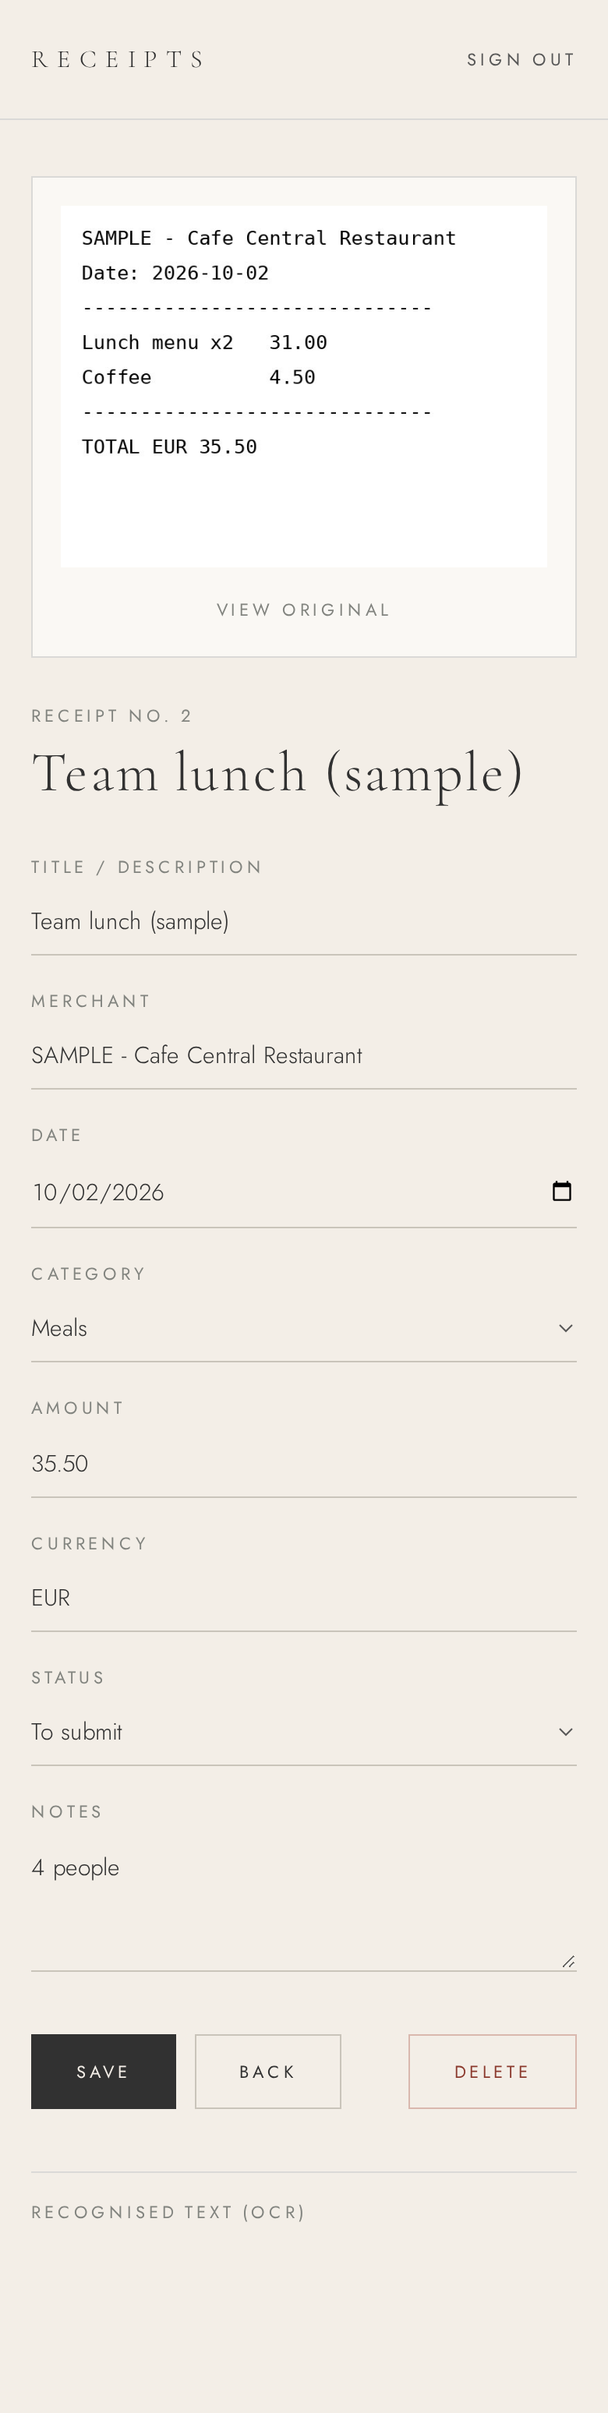
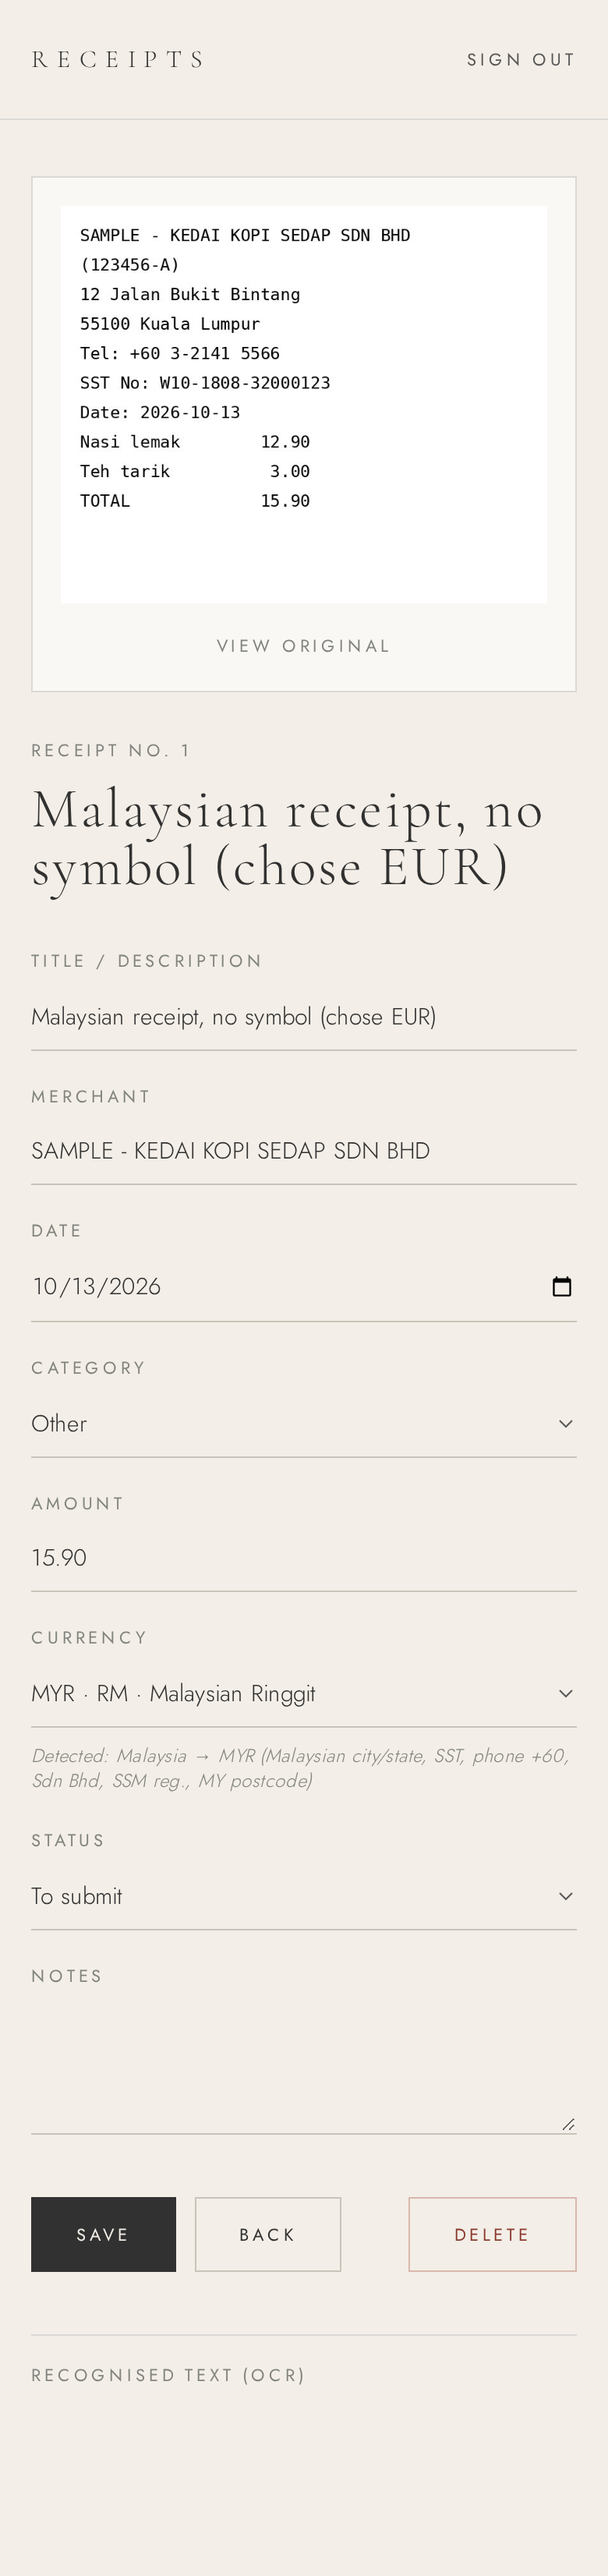
Country-based currency inference with confidence scoring, detection note, full-PDF OCR (text layer first)

diff --git a/currency.py b/currency.py
@@ -1,0 +1,86 @@
+"""Currency detection from OCR text: explicit symbols/codes first, then scored country clues."""
+import re
+
+EXPLICIT = [  # (currency, regex, label)
+    ("MYR", r"\bRM\s?\d", "RM"), ("MYR", r"(?<![A-Z])MYR(?![A-Z])", "MYR"),
+    ("SGD", r"S\$", "S$"), ("SGD", r"(?<![A-Z])SGD(?![A-Z])", "SGD"),
+    ("USD", r"US\$", "US$"), ("USD", r"(?<![A-Z])USD(?![A-Z])", "USD"),
+    ("EUR", r"€", "€"), ("EUR", r"(?<![A-Z])EUR(?![A-Z])", "EUR"),
+    ("GBP", r"£", "£"), ("GBP", r"(?<![A-Z])GBP(?![A-Z])", "GBP"),
+    ("HKD", r"HK\$", "HK$"), ("AUD", r"\bA\$|(?<![A-Z])AUD(?![A-Z])", "A$/AUD"), ("CAD", r"\bC\$|(?<![A-Z])CAD(?![A-Z])", "C$/CAD"),
+    ("NZD", r"NZ\$|(?<![A-Z])NZD(?![A-Z])", "NZ$"), ("THB", r"฿|(?<![A-Z])THB(?![A-Z])", "฿/THB"),
+    ("IDR", r"\bRp\.?\s?\d|(?<![A-Z])IDR(?![A-Z])", "Rp/IDR"), ("PHP", r"₱|(?<![A-Z])PHP(?![A-Z])", "₱/PHP"),
+    ("VND", r"₫|(?<![A-Z])VND(?![A-Z])", "₫/VND"), ("KRW", r"₩|(?<![A-Z])KRW(?![A-Z])", "₩/KRW"),
+    ("INR", r"₹|(?<![A-Z])INR(?![A-Z])", "₹/INR"), ("JPY", r"(?<![A-Z])JPY(?![A-Z])|円", "JPY/円"),
+    ("CNY", r"(?<![A-Z])(CNY|RMB)(?![A-Z])|元", "CNY"), ("CHF", r"(?<![A-Z])CHF(?![A-Z])", "CHF"),
+    ("AED", r"(?<![A-Z])AED(?![A-Z])", "AED"), ("MXN", r"MX\$|(?<![A-Z])MXN(?![A-Z])", "MXN"),
+    ("ARS", r"AR\$|(?<![A-Z])ARS(?![A-Z])", "ARS"), ("BRL", r"R\$|(?<![A-Z])BRL(?![A-Z])", "R$"),
+]
+
+EU = {"Spain": ["spain", "españa", "madrid", "barcelona", "valencia", "sevilla", "málaga|malaga", r"\+34", r"\b(NIF|CIF)\b", r"\bIVA\b"],
+      "France": ["france", "paris", "lyon", "marseille", "nice", r"\+33", r"\bTVA\b", r"\bSIRET\b|\bSIREN\b"],
+      "Germany": ["germany", "deutschland", "berlin", "münchen|munich", "hamburg", "frankfurt", r"\+49", r"\bMwSt\b|\bUSt\b", r"\bGmbH\b"],
+      "Italy": ["italy", "italia", "roma|rome", "milano|milan", "firenze|florence", r"\+39", r"\bP\.? ?IVA\b"],
+      "Portugal": ["portugal", "lisboa|lisbon", "porto", r"\+351", r"\bNIF\b"],
+      "Netherlands": ["netherlands", "nederland", "amsterdam", "rotterdam", r"\+31", r"\bBTW\b"],
+      "Belgium": ["belgium", "belgique", "brussels|bruxelles", r"\+32"], "Ireland": ["ireland", "dublin", r"\+353"],
+      "Austria": ["austria", "österreich", "wien|vienna", r"\+43"], "Greece": ["greece", "athens", r"\+30"],
+      "Finland": ["finland", "helsinki", r"\+358"]}
+
+COUNTRIES = {  # country: (currency, [(regex, weight, label)])
+    "Malaysia": ("MYR", [(r"malaysia", 3, "Malaysia"), (r"kuala lumpur|\bKL\b|petaling jaya|selangor|penang|pulau pinang|johor|melaka|malacca|ipoh|kota kinabalu|kuching|putrajaya|cyberjaya|shah alam|subang|klang", 2, "Malaysian city/state"),
+                         (r"\bSST\b", 2, "SST"), (r"\+?60[\s-]?1?\d[\s-]?\d{3,4}[\s-]?\d{4}", 2, "phone +60"), (r"\bSdn\.? ?Bhd\b|\bBhd\b", 3, "Sdn Bhd"),
+                         (r"\bSSM\b|\(\d{6,7}-[A-Z]\)|\b20\d{10}\b", 2, "SSM reg."), (r"\b[0-9]{5}\s+(kuala lumpur|selangor|penang|johor|melaka|perak|sabah|sarawak|kedah|pahang)", 2, "MY postcode")]),
+    "Singapore": ("SGD", [(r"singapore", 3, "Singapore"), (r"\+65[\s-]?\d{4}[\s-]?\d{4}", 2, "phone +65"), (r"\bUEN\b|\b(19|20)\d{7}[A-Z]\b", 3, "UEN"),
+                          (r"\bPte\.? ?Ltd\b", 3, "Pte Ltd"), (r"\bGST\b", 1, "GST"), (r"\bS\(?\d{6}\)?|singapore\s+\d{6}", 2, "SG postcode"),
+                          (r"orchard|jurong|tampines|changi|marina bay|raffles", 2, "Singapore area")]),
+    "United States": ("USD", [(r"united states|\bUSA\b|\bU\.S\.A?\.?\b", 3, "USA"), (r"\+1[\s-]?\(?\d{3}\)?[\s-]?\d{3}[\s-]?\d{4}|\(\d{3}\)\s?\d{3}-\d{4}", 2, "US phone"),
+                              (r"\b(AL|AK|AZ|AR|CA|CO|CT|DE|FL|GA|HI|ID|IL|IN|IA|KS|KY|LA|ME|MD|MA|MI|MN|MS|MO|MT|NE|NV|NH|NJ|NM|NY|NC|ND|OH|OK|OR|PA|RI|SC|SD|TN|TX|UT|VT|VA|WA|WV|WI|WY)\s+\d{5}(-\d{4})?\b", 3, "US state + ZIP"),
+                              (r"new york|los angeles|san francisco|chicago|seattle|boston|miami|las vegas", 2, "US city"), (r"sales tax", 1, "sales tax")]),
+    "United Kingdom": ("GBP", [(r"united kingdom|\bUK\b|england|scotland|wales", 3, "UK"), (r"\+44", 2, "phone +44"), (r"\b[A-Z]{1,2}\d[A-Z\d]?\s?\d[A-Z]{2}\b", 2, "UK postcode"),
+                               (r"london|manchester|edinburgh|birmingham|glasgow", 2, "UK city"), (r"\bVAT\s?(reg|no|number)", 2, "VAT reg."), (r"\bVAT\b", 1, "VAT")]),
+    "Thailand": ("THB", [(r"thailand", 3, "Thailand"), (r"bangkok|phuket|chiang mai|pattaya", 2, "Thai city"), (r"\+66", 2, "phone +66"), (r"ภาษี|บาท", 3, "Thai script")]),
+    "Indonesia": ("IDR", [(r"indonesia", 3, "Indonesia"), (r"jakarta|bali|denpasar|surabaya|bandung|ubud", 2, "Indonesian city"), (r"\+62", 2, "phone +62"), (r"\bNPWP\b|\bPPN\b", 3, "NPWP/PPN")]),
+    "Australia": ("AUD", [(r"australia", 3, "Australia"), (r"sydney|melbourne|brisbane|perth|adelaide|canberra", 2, "Australian city"), (r"\+61", 2, "phone +61"),
+                          (r"\bABN\b", 3, "ABN"), (r"\b(NSW|VIC|QLD|WA|SA|TAS|ACT|NT)\s+\d{4}\b", 3, "AU state + postcode"), (r"\bGST\b", 1, "GST")]),
+    "Japan": ("JPY", [(r"japan|日本", 3, "Japan"), (r"tokyo|osaka|kyoto|東京|大阪|京都", 2, "Japanese city"), (r"\+81", 2, "phone +81"), (r"〒\s?\d{3}-\d{4}", 3, "JP postcode"), (r"税込|消費税", 3, "consumption tax")]),
+    "Argentina": ("ARS", [(r"argentina", 3, "Argentina"), (r"buenos aires|córdoba|cordoba|rosario|mendoza|bariloche", 2, "Argentine city"), (r"\+54", 2, "phone +54"), (r"\bCUIT\b", 3, "CUIT"), (r"\bIVA\b", 1, "IVA")]),
+}
+for c, pats in EU.items():
+    lst = [(pats[0], 3, c)]
+    for p in pats[1:]:
+        if p.startswith(r"\+"): lst.append((p, 2, "phone " + p[1:]))
+        elif p.startswith(r"\b"): lst.append((p, 1 if p in (r"\bIVA\b", r"\bNIF\b") else 2, re.sub(r"\\b|\\.|\?|\(|\)| ", "", p).replace("|", "/")))
+        else: lst.append((p, 2, c + " city"))
+    COUNTRIES[c] = ("EUR", lst)
+COUNTRIES["Spain"][1].append((r"\bVAT\b", 1, "VAT"))
+
+def detect(text):
+    """Returns dict(currency, confident, note) or None."""
+    if not text: return None
+    found = {}
+    for cur, pat, lbl in EXPLICIT:
+        if re.search(pat, text): found.setdefault(cur, lbl)
+    if len(found) == 1:
+        cur, lbl = next(iter(found.items()))
+        return {"currency": cur, "confident": True, "note": f"Detected: “{lbl}” on receipt → {cur}"}
+    scores = {}
+    for country, (cur, pats) in COUNTRIES.items():
+        s, why = 0, []
+        for pat, w, lbl in pats:
+            if re.search(pat, text, re.I if not pat.startswith(r"\b(") and "[A-Z]" not in pat else 0):
+                s += w; why.append(lbl)
+        if s: scores[country] = (s, cur, why)
+    if not scores:
+        return {"currency": None, "confident": False, "note": "Ambiguous symbols: " + ", ".join(found.values())} if found else None
+    bycur = {}
+    for country, (s, cur, why) in scores.items(): bycur[cur] = bycur.get(cur, 0) + s
+    ranked = sorted(scores.items(), key=lambda kv: -kv[1][0])
+    country, (s, cur, why) = ranked[0]
+    curscores = sorted(bycur.values(), reverse=True)
+    margin = curscores[0] - (curscores[1] if len(curscores) > 1 else 0)
+    if found and cur not in found: margin = 0  # explicit symbols disagree with country clues
+    confident = s >= 4 and margin >= 3
+    note = f"Detected: {country} → {cur} ({', '.join(dict.fromkeys(why))})"
+    if not confident: note = f"Possible: {country} → {cur} ({', '.join(dict.fromkeys(why))}) · not confident, kept your choice"
+    return {"currency": cur, "confident": confident, "note": note}

diff --git a/app.py b/app.py
@@ -38,6 +38,7 @@ def db():
           status TEXT DEFAULT 'to submit', file TEXT, preview TEXT, ocr_text TEXT, created TEXT)""")
         cols = [c[1] for c in g.db.execute("PRAGMA table_info(receipts)")]
         if "title" not in cols: g.db.execute("ALTER TABLE receipts ADD COLUMN title TEXT DEFAULT ''")
+        if "ocr_note" not in cols: g.db.execute("ALTER TABLE receipts ADD COLUMN ocr_note TEXT DEFAULT ''")
     return g.db
 @app.teardown_appcontext
 def close(e):
@@ -65,6 +66,19 @@ def ocr(preview):
         return pytesseract.image_to_string(Image.open(os.path.join(TH, preview)))
     except Exception: return ""
 
+def extract_text(path, prev):
+    """OCR text. PDFs: use the text layer of all pages if present, otherwise OCR every page (max 10)."""
+    if path.lower().endswith(".pdf"):
+        try:
+            t = subprocess.run(["pdftotext", "-layout", path, "-"], capture_output=True, text=True, timeout=60).stdout
+            if len(t.strip()) > 20: return t
+            import tempfile, glob, pytesseract
+            with tempfile.TemporaryDirectory() as d:
+                subprocess.run(["pdftoppm", "-png", "-r", "200", "-l", "10", path, os.path.join(d, "p")], timeout=120)
+                return "\n".join(pytesseract.image_to_string(Image.open(p)) for p in sorted(glob.glob(os.path.join(d, "p*.png"))))
+        except Exception: return ""
+    return ocr(prev) if prev else ""
+
 def parse(text):
     r = {}
     lines = [l.strip() for l in text.splitlines() if len(l.strip()) > 2]
@@ -86,8 +100,11 @@ def parse(text):
         n = re.findall(r"\d+[.,]\d{2}", text)
         if n: amt = max(n, key=lambda x: float(x.replace(",", ".")))
     if amt: r["amount"] = float(amt.replace(",", "."))
-    cur = detect_currency(text)
-    if cur: r["currency"] = cur
+    from currency import detect
+    d = detect(text)
+    if d:
+        r["ocr_note"] = d["note"]
+        if d["confident"]: r["currency"] = d["currency"]
     low = text.lower()
     for cat, kws in [("meals",["restaurant","cafe","coffee","lunch","dinner","food"]),("lodging",["hotel","inn","night"]),
                      ("travel",["airline","flight","train","rail"]),("transport",["taxi","uber","fuel","parking","metro"]),
@@ -95,24 +112,13 @@ def parse(text):
         if any(k in low for k in kws): r["category"] = cat; break
     return r
 
-def detect_currency(text):
-    """Return an ISO code only when the receipt is unambiguous; bare '$' or '¥' is not enough."""
-    hits = set()
-    for c in CODES:
-        if re.search(r"(?<![A-Z])%s(?![A-Z])" % c, text): hits.add(c)
-    for c, pat in [("EUR", "€"), ("GBP", "£"), ("INR", "₹"), ("KRW", "₩"), ("THB", "฿"), ("PHP", "₱"), ("VND", "₫"),
-                   ("MYR", r"\bRM\s?\d"), ("SGD", r"S\$"), ("USD", r"US\$"), ("HKD", r"HK\$"), ("AUD", r"\bA\$"),
-                   ("CAD", r"\bC\$"), ("NZD", r"NZ\$"), ("IDR", r"\bRp\.?\s?\d"), ("BRL", r"R\$")]:
-        if re.search(pat, text): hits.add(c)
-    return hits.pop() if len(hits) == 1 else None
-
 def add_receipt(path, fields=None):
     prev = make_preview(path)
-    text = ocr(prev) if prev else ""
+    text = extract_text(path, prev)
     detected = parse(text); f = dict(detected); f.update({k: v for k, v in (fields or {}).items() if v})
-    if detected.get("currency"): f["currency"] = detected["currency"]  # confident OCR wins
-    cur = db().execute("INSERT INTO receipts(title,date,merchant,amount,currency,category,notes,status,file,preview,ocr_text,created) VALUES(?,?,?,?,?,?,?,?,?,?,?,?)",
-        (f.get("title",""), f.get("date", datetime.date.today().isoformat()), f.get("merchant",""), f.get("amount",0) or 0, f.get("currency","EUR"),
+    if detected.get("currency"): f["currency"] = detected["currency"]  # only set when confident
+    cur = db().execute("INSERT INTO receipts(ocr_note,title,date,merchant,amount,currency,category,notes,status,file,preview,ocr_text,created) VALUES(?,?,?,?,?,?,?,?,?,?,?,?,?)",
+        (f.get("ocr_note",""), f.get("title",""), f.get("date", datetime.date.today().isoformat()), f.get("merchant",""), f.get("amount",0) or 0, f.get("currency","EUR"),
          f.get("category","other"), f.get("notes",""), f.get("status","to submit"), os.path.basename(path), prev, text, datetime.datetime.now().isoformat()))
     return cur.lastrowid
 

diff --git a/ui.py b/ui.py
@@ -110,6 +110,7 @@ textarea{resize:vertical;line-height:1.5}
 .status.s-submitted:before{background:#a8987d}.status.s-reimbursed:before{background:#6f7d64}
 .empty{padding:70px 0;text-align:center;color:var(--stone)}
 .empty .serif{font-size:30px;color:var(--ink);margin-bottom:6px}
+.detect{font-size:12px;color:var(--stone);font-style:italic;margin-top:4px;line-height:1.4}
 .note{font-size:12.5px;color:var(--stone);margin-top:12px}
 /* flash */
 .flash{position:fixed;left:50%;bottom:28px;transform:translateX(-50%);background:var(--ink);color:var(--sand);padding:14px 26px;
@@ -214,7 +215,7 @@ EDIT = HEAD + """<title>Receipt · {{r.title or r.merchant}}</title></head><body
 <label class=field><span class=label>Date</span><input type=date name=date value="{{r.date}}"></label>
 <label class=field><span class=label>Category</span><select name=category>{% for c in cats %}<option value="{{c}}" {{'selected' if r.category==c}}>{{CAT[c]}}</option>{% endfor %}</select></label>
 <label class=field><span class=label>Amount</span><input type=number step=0.01 inputmode=decimal name=amount value="{{'%.2f'|format(r.amount)}}"></label>
-<label class=field><span class=label>Currency</span><select name=currency>{{curopts(r.currency)}}</select></label>
+<label class=field><span class=label>Currency</span><select name=currency>{{curopts(r.currency)}}</select>{% if r.ocr_note %}<span class=detect>{{r.ocr_note}}</span>{% endif %}</label>
 <label class="field full"><span class=label>Status</span><select name=status>{% for s in statuses %}<option value="{{s}}" {{'selected' if r.status==s}}>{{ST[s]}}</option>{% endfor %}</select></label>
 <label class="field full"><span class=label>Notes</span><textarea name=notes rows=3>{{r.notes}}</textarea></label></div>
 <div class=actions><button class=btn>Save</button><a href="/" class="btn ghost">Back</a>
